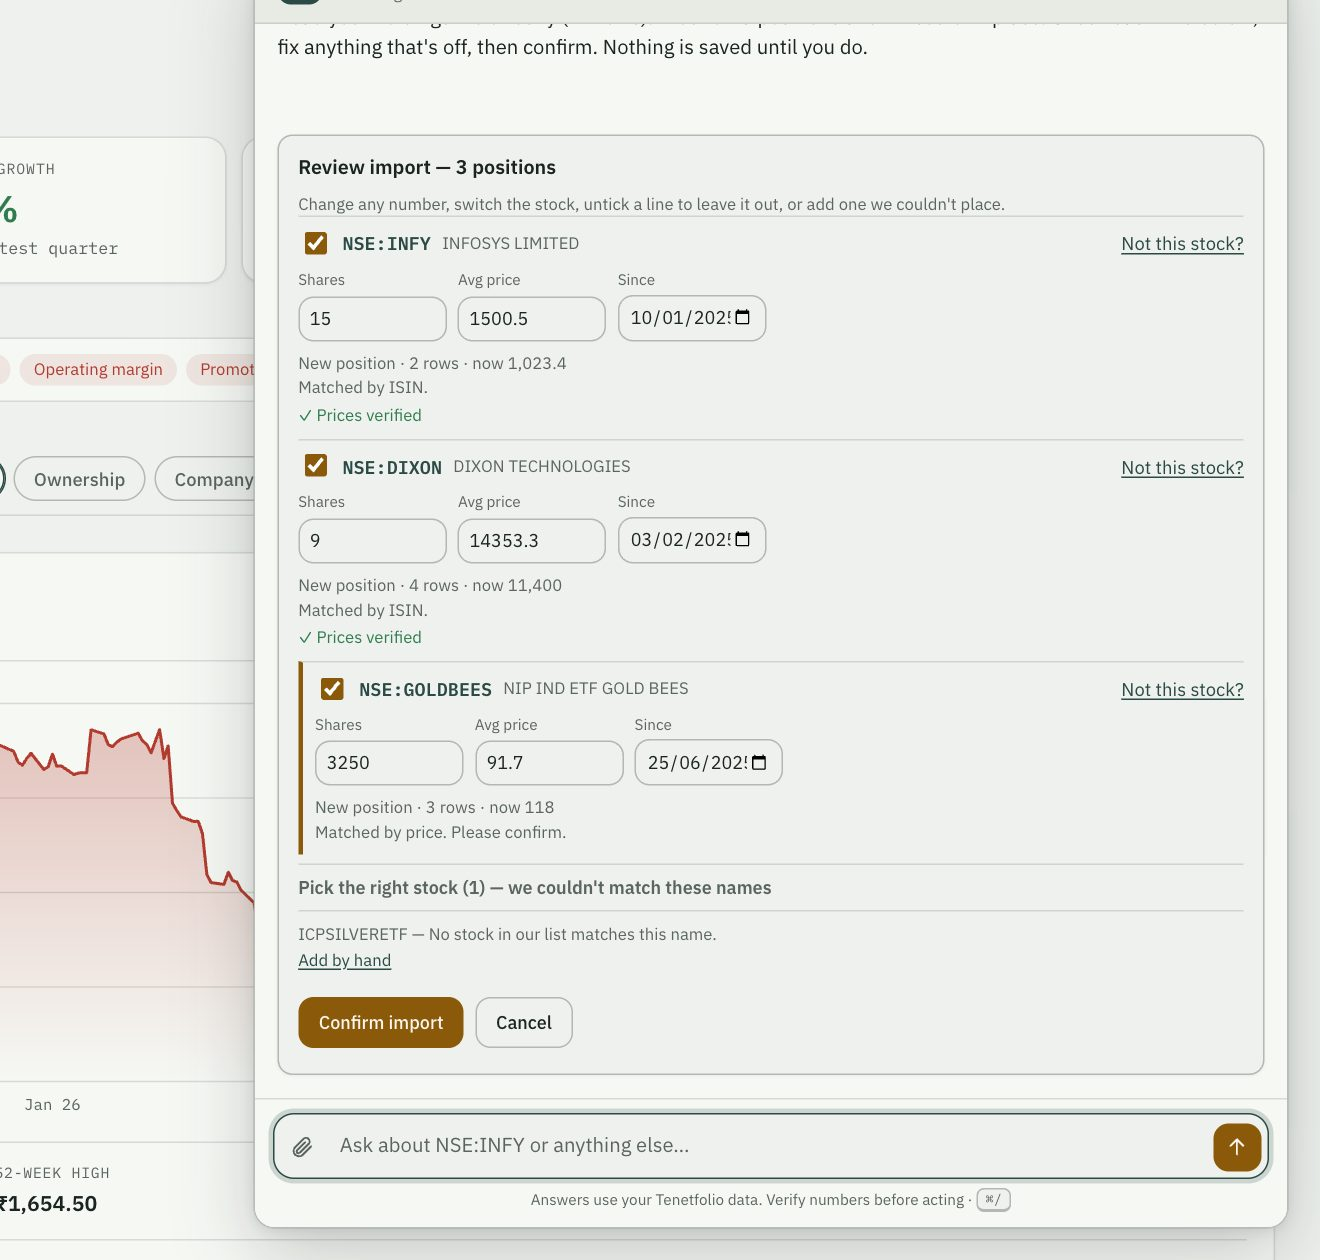
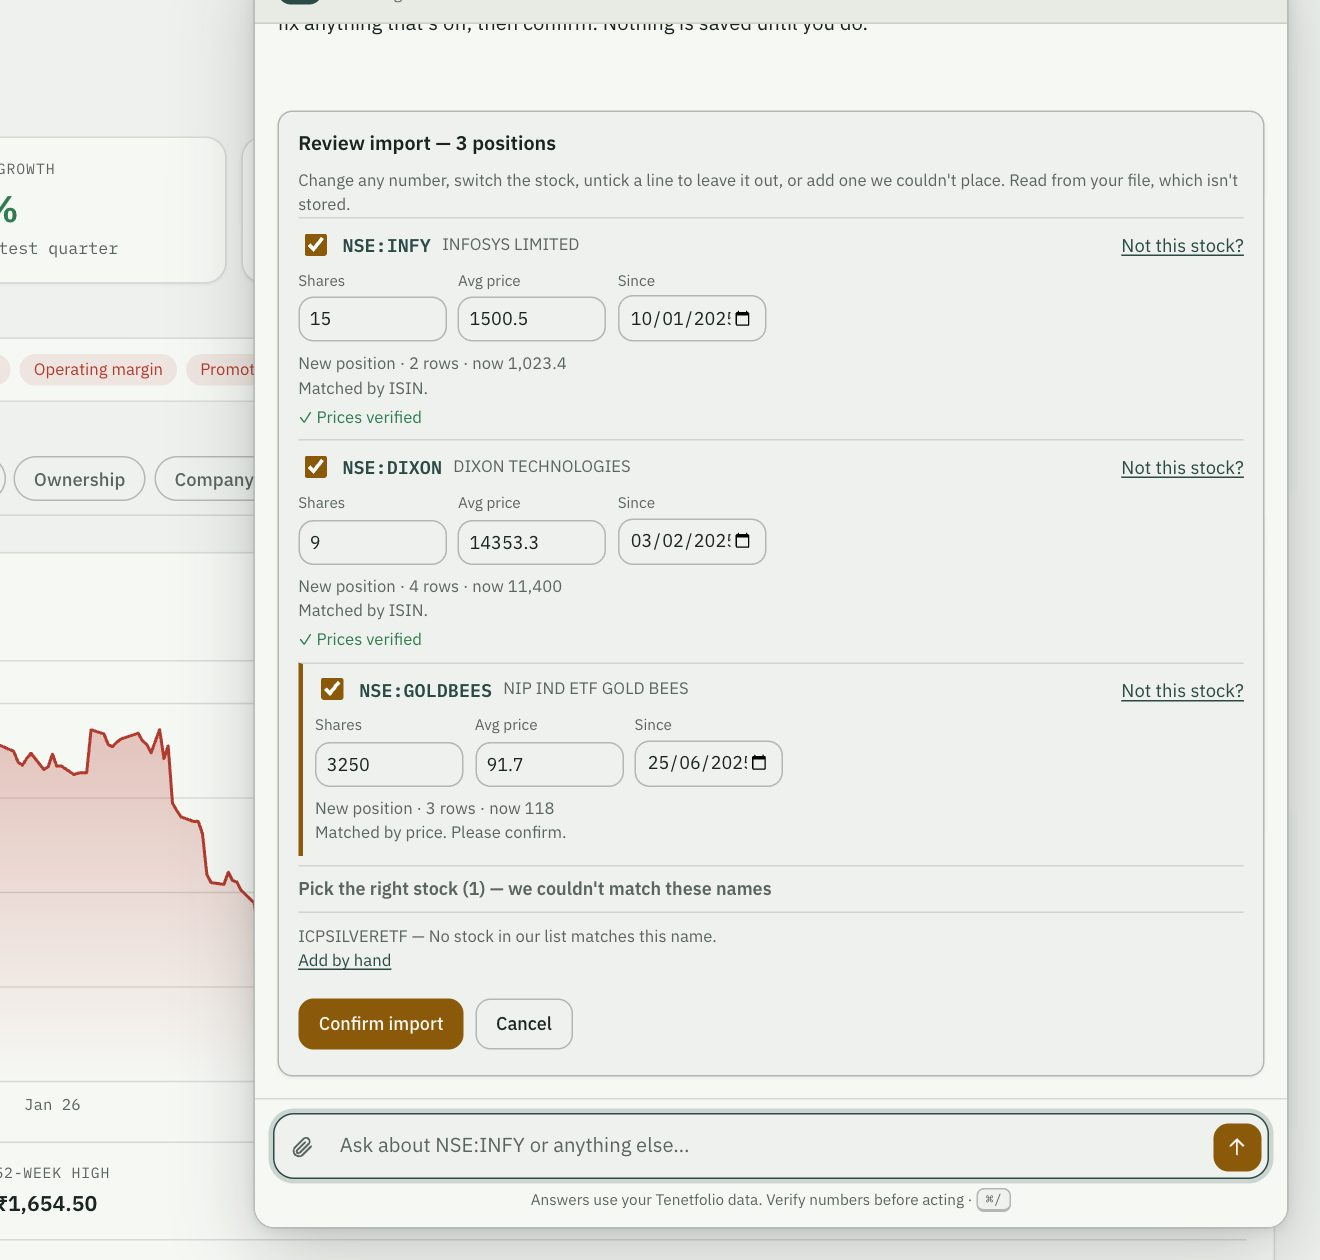
Home page: remove advisory-sounding copy and visuals and the third-party analyst section; statement import notice, consent time and privacy wording (local only, not deployed)

diff --git a/app/templates/home.html b/app/templates/home.html
@@ -3,12 +3,12 @@
 <head>
   <meta charset="utf-8">
   <meta name="viewport" content="width=device-width, initial-scale=1">
-  <title>Tenetfolio · Research, rules and a portfolio you hold to them</title>
-  <meta name="description" content="Research any stock to the quarter, write the rules you invest by, and let Tenetfolio hold your portfolio to them every day. India and US stocks. Descriptive research, not investment advice.">
+  <title>Tenetfolio · Research any stock. Check your portfolio against your own rules</title>
+  <meta name="description" content="Research any stock to the quarter, write the rules you invest by, and have your portfolio checked against them every day. India and US stocks. Descriptive research, not investment advice.">
   <link rel="canonical" href="https://tenetfolio.com/">
   <meta property="og:type" content="website">
   <meta property="og:site_name" content="Tenetfolio">
-  <meta property="og:title" content="Tenetfolio: decide when you're calm, hold when you're not">
+  <meta property="og:title" content="Tenetfolio: write your investing rules while you're calm">
   <meta property="og:description" content="Research any stock to the quarter, write your own investing rules, and have your portfolio checked against them every day.">
   <meta property="og:url" content="https://tenetfolio.com/">
   <meta name="twitter:card" content="summary_large_image">
@@ -26,23 +26,23 @@
   <div class="hero">
    <div>
     <span class="eyebrow">Research · Rules · Portfolio</span>
-    <h1>Decide when you're calm. <em>Hold when you're not.</em></h1>
-    <p class="lead">Research any stock to the quarter. Write the rules you invest by. Tenetfolio holds your portfolio to them, every day.</p>
+    <h1>Decide when you're calm. <em>Check every day.</em></h1>
+    <p class="lead">Research any stock to the quarter. Write the rules you invest by. Tenetfolio checks your portfolio against them, every day.</p>
     <div class="cta"><a class="btn btn-a" href="{{ "/analytics" if user else cta_href }}">{{ "Open Tenetfolio" if user else "Continue with Google" }}</a><a class="btn btn-o" href="#research">See the research</a></div>
     <p class="fine" style="margin:14px 0 0">Free to start. Descriptive research, not investment advice.</p>
    </div>
    <div class="panic">
     <div class="top"><span>Tuesday · 11:42</span><span>Example</span></div>
     <div class="idx">Nifty −3.2%</div>
-    <div style="opacity:.72;font-size:14px">The feed says sell everything.</div>
+    <div style="opacity:.72;font-size:14px">A hard day for the market.</div>
     <hr>
     <div class="r"><span>Holdings that pass your rules</span><span style="color:var(--calm)">11 of 14</span></div>
     <div class="r"><span>Broke a rule before today</span><span>3</span></div>
     <div class="r"><span>New rule breaks today</span><span style="color:var(--calm)">0</span></div>
-    <div class="big">Nothing to do. Your plan says hold.</div>
+    <div class="big">Your rules, checked: no new breaks today.</div>
    </div>
   </div>
-  <div class="heroshot"><div class="frame"><div class="bar"><i></i><i></i><i></i></div><img src="/static/img/home/story.jpg" alt="A position story: trim alert, your rules, exit check and position size" width="1823" height="1170" decoding="async"></div></div>
+  <div class="heroshot"><div class="frame"><div class="bar"><i></i><i></i><i></i></div><img src="/static/img/home/analytics.jpg" alt="A stock page: key figures, how it scores against your rules, and the price chart" width="1823" height="1170" decoding="async"></div></div>
  </div>
 </div>
 
@@ -55,33 +55,27 @@
    <div class="stat"><b>5 views</b><span>performance, health, valuation, ownership, company</span></div>
    <div class="stat"><b>Daily</b><span>prices, filings and result dates</span></div>
   </div>
-  <div class="two">
-   <div class="txt"><span class="eyebrow">The page for every stock</span><h2>Your verdict, <em>first.</em></h2>
-    <p class="sub">Every stock opens with how it scores against your rules, so you see what fails before you read a number.</p>
-    <ul class="pts"><li>Price, growth, margin, ROCE and P/E at a glance</li><li>Next result date, from the exchanges</li><li>Choose what to show: performance, financial health, valuation, ownership, company</li></ul></div>
-   <div class="shot"><img src="/static/img/home/analytics.jpg" alt="Infosys page with the rules verdict and price chart" width="1823" height="1170" loading="lazy" decoding="async"></div>
-  </div>
   <div class="two flip" style="margin-top:72px">
    <div class="shot"><img src="/static/img/home/quarters.jpg" alt="Quarterly results table and charts for twelve quarters" width="1823" height="1170" loading="lazy" decoding="async"></div>
    <div class="txt"><span class="eyebrow">Raw data first</span><h2>Twelve quarters, <em>side by side.</em></h2>
-    <p class="sub">Revenue, margins, profit, EPS and growth, with balance sheet, cash flow and who owns the company, as filed.</p>
-    <ul class="pts"><li>Quarterly and annual, with cash flow and balance sheet</li><li>Promoter, FII and DII holding, and pledge</li><li>Recent exchange filings, summarised</li></ul></div>
+    <p class="sub">Revenue, margins, profit, EPS and growth for every reported quarter, as filed.</p>
+    <ul class="pts"><li>Quarterly and annual statements</li><li>Charts you can expand and export</li><li>Recent exchange filings, with links to the originals</li></ul></div>
   </div>
   <div class="two" style="margin-top:72px">
-   <div class="txt"><span class="eyebrow">Beyond the filings</span><h2>What the street <em>expects.</em></h2>
-    <p class="sub">Analyst targets, rating split and estimates for the next years and quarters, kept apart from reported results and clearly labelled.</p>
-    <ul class="pts"><li>Mean target, range and 90-day drift</li><li>Reported against consensus, with the surprise</li><li>Valuation against the stock's own history</li></ul></div>
-   <div class="shot"><img src="/static/img/home/analysts.jpg" alt="Analyst view: target range, ratings and consensus estimates" width="1823" height="1170" loading="lazy" decoding="async"></div>
+   <div class="txt"><span class="eyebrow">Behind the numbers</span><h2>Who owns it, and <em>the cash behind it.</em></h2>
+    <p class="sub">Cash flow, balance sheet and ownership, by year and by half-year, with the source of every figure.</p>
+    <ul class="pts"><li>Operating cash flow against profit</li><li>Promoter, FII and DII holding, and pledge</li><li>Next result date, from the exchanges</li></ul></div>
+   <div class="shot"><img src="/static/img/home/health.jpg" alt="Cash flow and balance sheet for a stock" width="1823" height="1170" loading="lazy" decoding="async"></div>
   </div>
  </div>
 </section>
 
 <section class="alt" id="rules">
  <div class="wrap two flip">
-  <div class="shot"><img src="/static/img/home/rules.jpg" alt="Investment rules page: thresholds, daily story and position sizing" width="1823" height="1170" loading="lazy" decoding="async"></div>
+  <div class="shot"><img src="/static/img/home/rules.jpg" alt="The investment rules page: the thresholds you set" width="1823" height="1170" loading="lazy" decoding="async"></div>
   <div class="txt"><span class="eyebrow">Your tenets</span><h2>Write your rules <em>once.</em></h2>
    <p class="sub">Set the numbers you believe in. They drive two things, so you never set them twice.</p>
-   <ul class="pts"><li><b>The screener.</b> Which stocks pass, in Analytics and on every stock page.</li><li><b>Your positions.</b> How big a holding may grow, when to trim, and your sector limit.</li><li>Defaults are ready. Change only what you disagree with.</li></ul></div>
+   <ul class="pts"><li><b>The screener.</b> Which stocks pass, in Analytics and on every stock page.</li><li><b>Your positions.</b> Limits you set, such as the largest a holding may be and the most you will hold in one sector.</li><li>Defaults are ready. Change only what you disagree with.</li></ul></div>
  </div>
 </section>
 
@@ -98,7 +92,7 @@
    <div class="shot"><img src="/static/img/home/portfolio.jpg" alt="Portfolio: value, returns, allocation and movers" width="1823" height="1080" loading="lazy" decoding="async"></div>
    <div class="txt"><span class="eyebrow">One view</span><h2>All of it, <em>at a glance.</em></h2>
     <p class="sub">Value, returns, allocation by sector and movers, in rupees, with US holdings converted at a live rate.</p>
-    <ul class="pts"><li>A daily story and flags for each stock you track</li><li>Trim alerts when a position outgrows your limit</li><li>Journal your reasons and review them later</li></ul></div>
+    <ul class="pts"><li>A daily summary of what changed and which of your rules a stock breaks</li><li>A flag when a position goes above a limit you set</li><li>Journal your reasons and review them later</li></ul></div>
   </div>
  </div>
 </section>
@@ -125,7 +119,7 @@
 </section>
 
 <div class="dark">
- <div class="wrap close"><h2>Rules written in calm <em>hold in a storm.</em></h2><a class="btn btn-a" href="{{ "/analytics" if user else cta_href }}">{{ "Open Tenetfolio" if user else "Continue with Google" }}</a><p class="fine" style="margin:14px 0 0">Free to start. Your data stays yours, with one-click delete.</p></div>
+ <div class="wrap close"><h2>Rules written in calm <em>are easier to keep.</em></h2><a class="btn btn-a" href="{{ "/analytics" if user else cta_href }}">{{ "Open Tenetfolio" if user else "Continue with Google" }}</a><p class="fine" style="margin:14px 0 0">Free to start. Your data stays yours, with one-click delete.</p></div>
 </div>
 <footer><div class="wrap"><span>Tenetfolio · A tenet is a rule you hold to. · <a href="mailto:tenetfolio@gmail.com">tenetfolio@gmail.com</a></span><span>A descriptive research tool. It does not give investment advice. Figures come from filings and public sources and can contain errors. · <a href="/privacy">Privacy</a> · <a href="/terms">Terms</a></span></div></footer>
 </body>

diff --git a/app/templates/legal_privacy.html b/app/templates/legal_privacy.html
@@ -11,7 +11,7 @@
   <li><strong>Account.</strong> Your email address, name and Google account ID when you sign in with Google. We receive only what the Google basic scopes (openid, email, profile) provide. We never see your Google password.</li>
   <li><strong>Profile (optional).</strong> Display name, phone, contact email, city, country and a short bio, only if you fill them in.</li>
   <li><strong>Your investing data.</strong> Stocks you track, quantities, average prices and dates, your investment rules and sizing limits, journal notes, and the daily analyses we generate for you.</li>
-  <li><strong>Imports.</strong> When you attach a broker statement, we read it to propose positions. We do not keep the file itself. The rows we extracted are saved with your account until you confirm or cancel the import.</li>
+  <li><strong>Imports.</strong> When you attach a broker statement, we read it to propose positions. We do not keep the file itself. The rows we extracted are saved with your account until you confirm or cancel the import. Excel, CSV and text-based PDFs are read on our own server. Scanned PDFs, photos, and files in a layout we don't recognise are sent whole to the AI provider you chose, which may process them outside India. Statements often show your name, address and account ID, and those go along with the file. You see a notice before you send a file, and we record the time of the first one.</li>
   <li><strong>Community posts and replies</strong> you choose to write, shown under your display name.</li>
   <li><strong>AI provider keys.</strong> If you add your own key for an AI service, we store it encrypted and never show it again.</li>
   <li><strong>Technical data.</strong> A sign-in cookie, and ordinary server logs (IP address, pages requested, errors) used to keep the service running and secure.</li>

diff --git a/app/static/js/chat-widget.js b/app/static/js/chat-widget.js
@@ -472,7 +472,16 @@ function _renderPendingFile() {
   x.setAttribute("aria-label", "Remove attachment");
   x.appendChild(_icon("i-x", "icon-sm"));
   x.onclick = clearChatFile;
-  box.append(_icon("i-paperclip", "icon-sm"), _el("span", "name", chat.pendingFile.name), x);
+  const row = _el("div", "chat-attachment-row");
+  row.append(_icon("i-paperclip", "icon-sm"), _el("span", "name", chat.pendingFile.name), x);
+  const note = _el("div", "chat-attachment-note");
+  note.append("We read this file to find your holdings and don't keep it. Excel, CSV and text PDFs are read on our server. Scans, photos and unfamiliar layouts are sent to the AI provider you chose in AI settings. ");
+  const link = _el("a", null, "Privacy policy");
+  link.href = "/privacy";
+  link.target = "_blank";
+  link.rel = "noopener";
+  note.append(link, ". Sending the file means you agree.");
+  box.append(row, note);
 }
 
 // ---------- import proposal card ----------
@@ -549,7 +558,7 @@ function _renderProposal(p) {
   if (!log) return;
   const card = _el("div", "chat-card");
   card.appendChild(_el("div", "chat-card-title", p.rows.length ? "Review import — " + p.rows.length + " position" + (p.rows.length === 1 ? "" : "s") : "Nothing matched yet"));
-  card.appendChild(_el("div", "chat-card-sub", "Change any number, switch the stock, untick a line to leave it out, or add one we couldn't place."));
+  card.appendChild(_el("div", "chat-card-sub", "Change any number, switch the stock, untick a line to leave it out, or add one we couldn't place. Read from your file, which isn't stored."));
 
   const editors = []; // one per proposed row
   const added = [];   // manually filled rows from "couldn't place"

diff --git a/app/static/css/chat-widget.css b/app/static/css/chat-widget.css
@@ -178,7 +178,10 @@
 .chat-foot .kbd { font-size: 0.6rem; }
 
 .chat-attachment { display: none; }
-.chat-attachment.has { display: flex; align-items: center; gap: 0.5rem; font-size: 0.78rem; padding: 0.3rem 0.6rem; background: var(--badge-accent-bg); border-radius: var(--r-md); }
+.chat-attachment.has { display: flex; flex-direction: column; gap: 0.3rem; font-size: 0.78rem; padding: 0.35rem 0.6rem; background: var(--badge-accent-bg); border-radius: var(--r-md); }
+.chat-attachment-row { display: flex; align-items: center; gap: 0.5rem; }
+.chat-attachment-note { font-size: 0.7rem; color: var(--muted); line-height: 1.45; }
+.chat-attachment-note a { color: inherit; }
 .chat-attachment .name { flex: 1; overflow: hidden; text-overflow: ellipsis; white-space: nowrap; }
 .chat-attachment button { all: unset; cursor: pointer; color: var(--muted); display: grid; }
 .chat-attachment button:hover { color: var(--ink); }

diff --git a/app/routes/chat.py b/app/routes/chat.py
@@ -135,6 +135,14 @@ async def _stream(user_id: int, message: str, history_json: str | None, page: st
     hint = f"[Now on the {page} page" + (f" for {symbol}" if symbol else "") + ".] " if page else ""
 
     prompt = hint + message
+    if upload is not None:
+        try:  # the widget shows the processing notice before a file can be sent: keep the time of the first one
+            from app.db import get_users_conn
+            with get_users_conn() as u:
+                u.execute("UPDATE users SET import_consent_at = COALESCE(import_consent_at, CURRENT_TIMESTAMP) WHERE id = ?", (user_id,))
+                u.commit()
+        except Exception:  # noqa: BLE001 - a logging failure must never block the import
+            logger.warning("could not record import notice time")
     if upload is not None and upload[0].lower().endswith(SHEET_TYPES):
         # Spreadsheet exports map column-by-column with no AI: exact, free, and long files are no problem. Anything unrecognised
         # falls through to the AI reading the file's text.

diff --git a/app/db.py b/app/db.py
@@ -624,6 +624,8 @@ def init_db() -> None:
                 u.execute(f"ALTER TABLE users ADD COLUMN {col} TEXT")
         if "google_sub" not in {row["name"] for row in u.execute("PRAGMA table_info(users)").fetchall()}:
             u.execute("ALTER TABLE users ADD COLUMN google_sub TEXT")  # Google account id (OIDC `sub`) for "Sign in with Google"
+        if "import_consent_at" not in {row["name"] for row in u.execute("PRAGMA table_info(users)").fetchall()}:
+            u.execute("ALTER TABLE users ADD COLUMN import_consent_at TEXT")  # first time the user sent a statement, after seeing the processing notice
         if "welcomed_at" not in {row["name"] for row in u.execute("PRAGMA table_info(users)").fetchall()}:
             u.execute("ALTER TABLE users ADD COLUMN welcomed_at TEXT")  # first visit to the /welcome getting-started page
         u.execute("CREATE UNIQUE INDEX IF NOT EXISTS idx_users_google_sub ON users(google_sub) WHERE google_sub IS NOT NULL")
